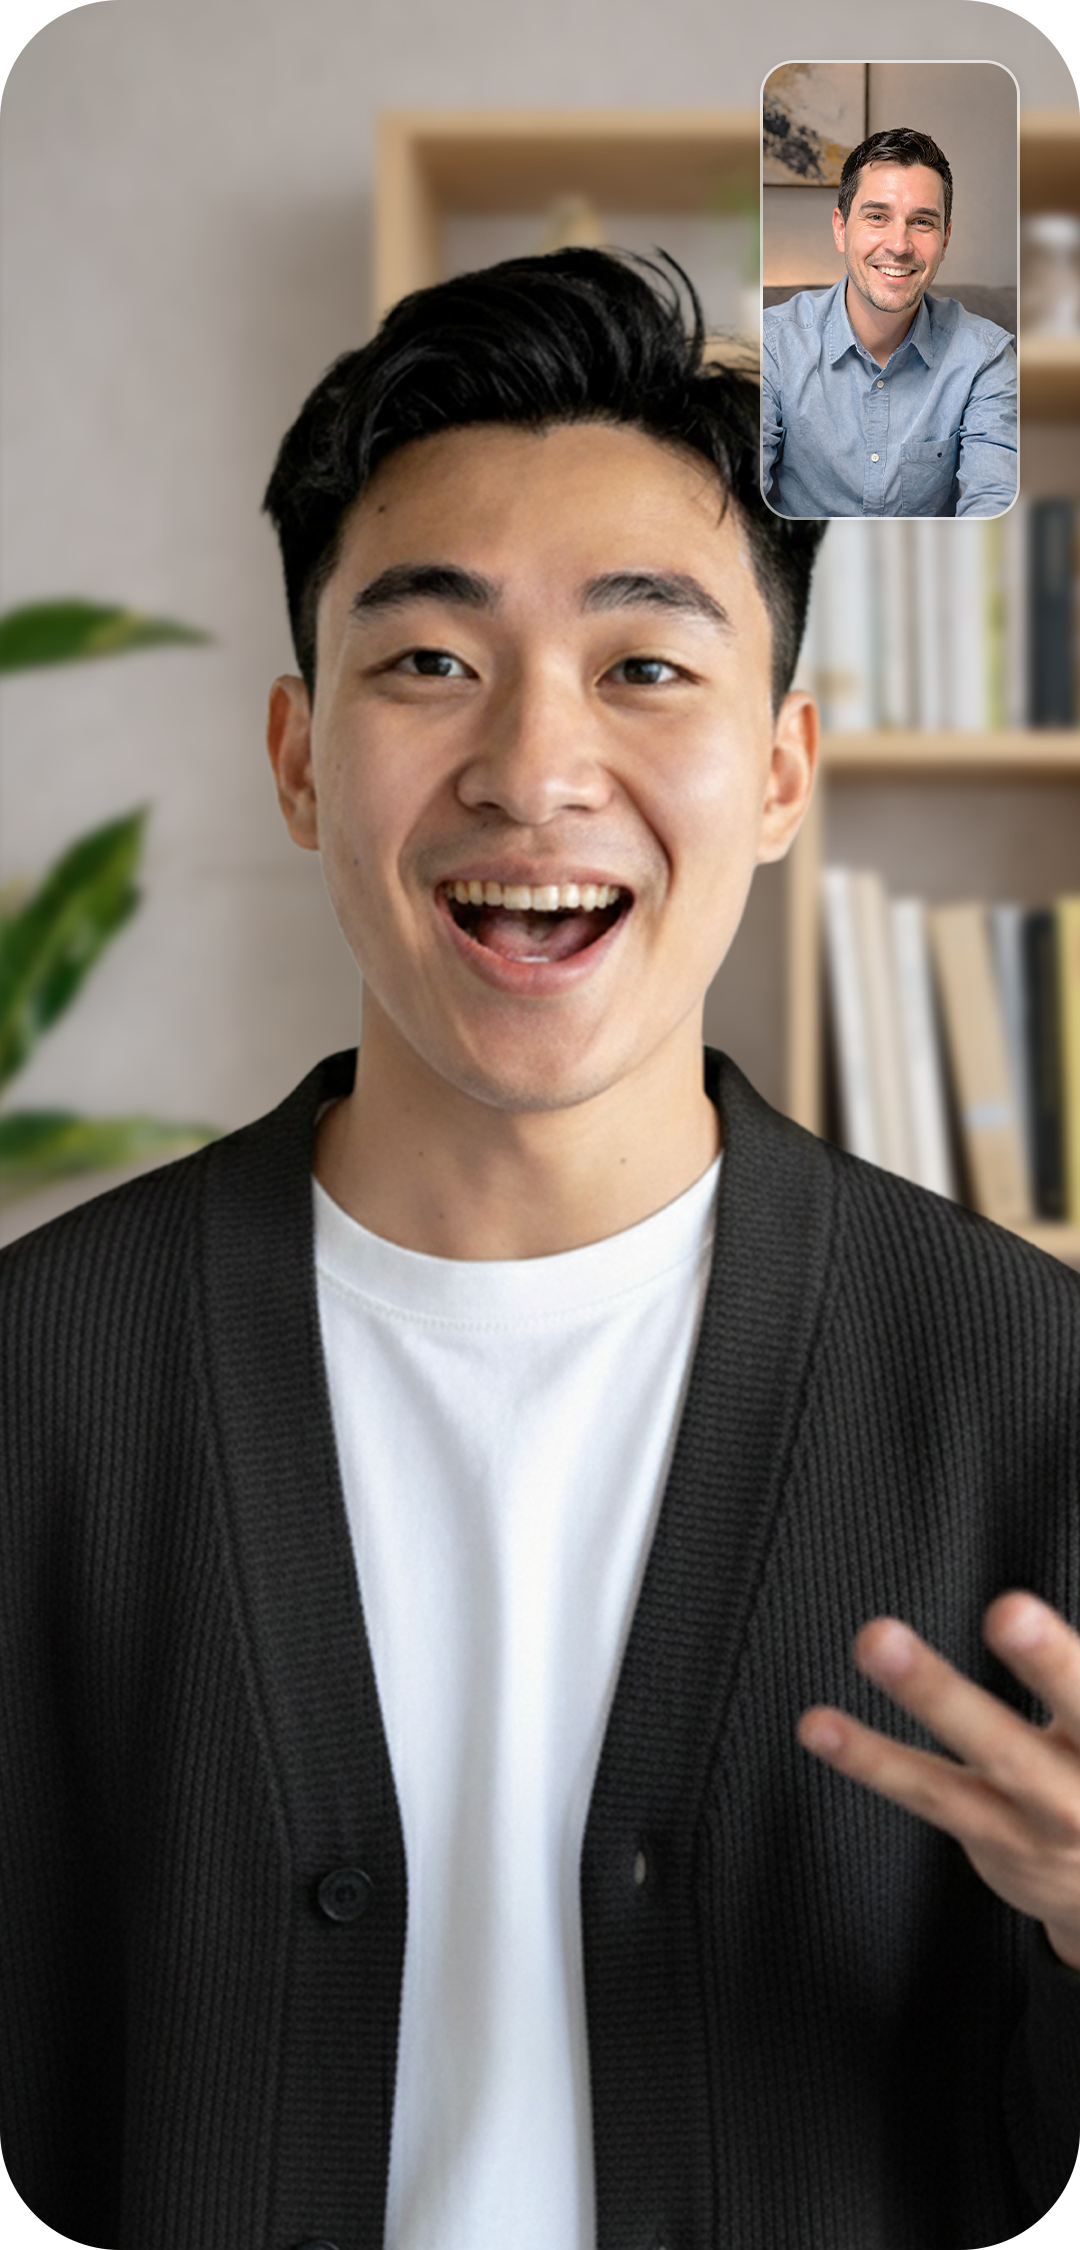
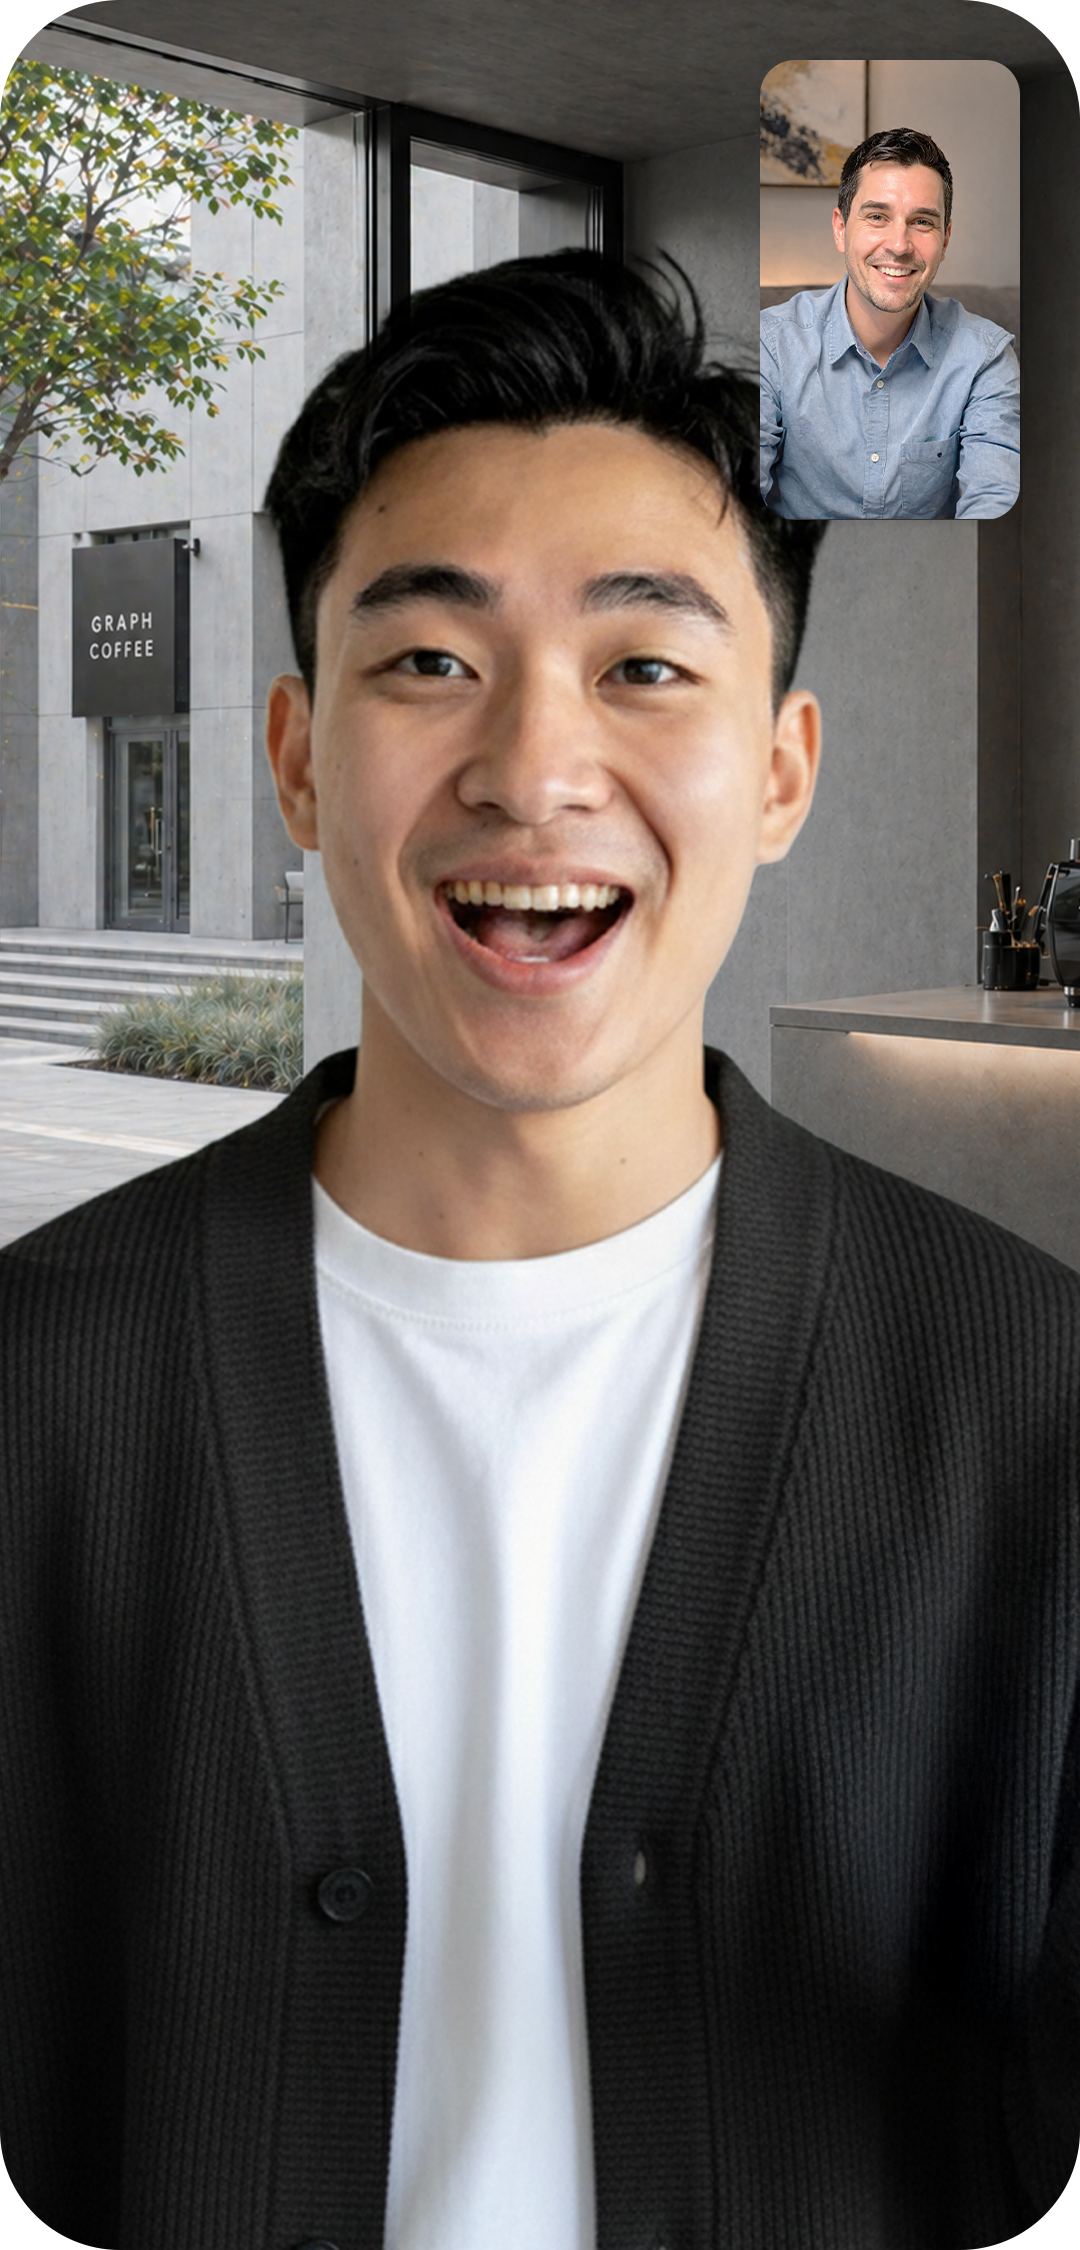
타이틀과 본문 사이 간격 조정

Changed region(s): [[0.0, 0.0, 1.0, 0.56], [0.7333, 0.6844, 1.0, 0.8711]]

diff --git a/components/Section5.tsx b/components/Section5.tsx
@@ -25,7 +25,7 @@ const Section5 = () => {
   return (
     <section className="landing-section-spacing relative w-full bg-bg-blue text-black">
       <div className="page-shell">
-        <div className="flex flex-col items-center mb-[30px] md:mb-[40px] lg:mb-[50px]">
+        <div className="flex flex-col items-center mb-[40px] md:mb-[40px] lg:mb-[50px]">
           <h2 className="type-h2 text-center text-black">
             지금 레벨테스트 신청하고<br />
             무료 수업 받으세요

diff --git a/components/BlogSection.tsx b/components/BlogSection.tsx
@@ -10,7 +10,7 @@ export default function BlogSection() {
   return (
     <section className="landing-section-spacing relative w-full bg-white">
       <div className="page-shell">
-        <div className="flex flex-col items-center mb-[30px] md:mb-[40px] lg:mb-[50px]">
+        <div className="flex flex-col items-center mb-[40px] md:mb-[40px] lg:mb-[50px]">
           <h2 className="type-h2 text-center">
             <span className="font-ko">익스</span> 블로그에 초대합니다
           </h2>

diff --git a/components/ReviewCarousel.tsx b/components/ReviewCarousel.tsx
@@ -146,7 +146,7 @@ const ReviewCarousel = () => {
 
     return (
         <section className="landing-section-spacing bg-white overflow-hidden">
-            <div className="page-shell mb-[30px] md:mb-[40px] lg:mb-[50px] text-center">
+            <div className="page-shell mb-[40px] md:mb-[40px] lg:mb-[50px] text-center">
                 <div className="flex flex-col items-center">
                 <h2 className="type-h2 text-gray-900">
                     수강생들의 생생한 후기

diff --git a/components/Section3.tsx b/components/Section3.tsx
@@ -212,7 +212,7 @@ const Section3 = () => {
   return (
     <section className="landing-section-spacing relative w-full bg-bg-dark text-white">
       <div className="page-shell">
-        <div className="mb-[30px] flex flex-col items-center md:mb-[40px] lg:mb-[50px]">
+        <div className="mb-[40px] flex flex-col items-center md:mb-[40px] lg:mb-[50px]">
           <h2 className="type-h2 text-center text-white">
             교과서 밖에서 통하는 영어,
             <br />

diff --git a/components/Section2.tsx b/components/Section2.tsx
@@ -84,7 +84,7 @@ const Section2 = () => {
   return (
     <section className="landing-section-spacing relative w-full bg-white">
       <div className="page-shell">
-        <div className="mb-[30px] flex flex-col items-center md:mb-[40px] lg:mb-[50px]">
+        <div className="mb-[40px] flex flex-col items-center md:mb-[40px] lg:mb-[50px]">
           <h2 className="type-h2 text-center text-black">
             실전에서는 막막한 영어,
             <br />
